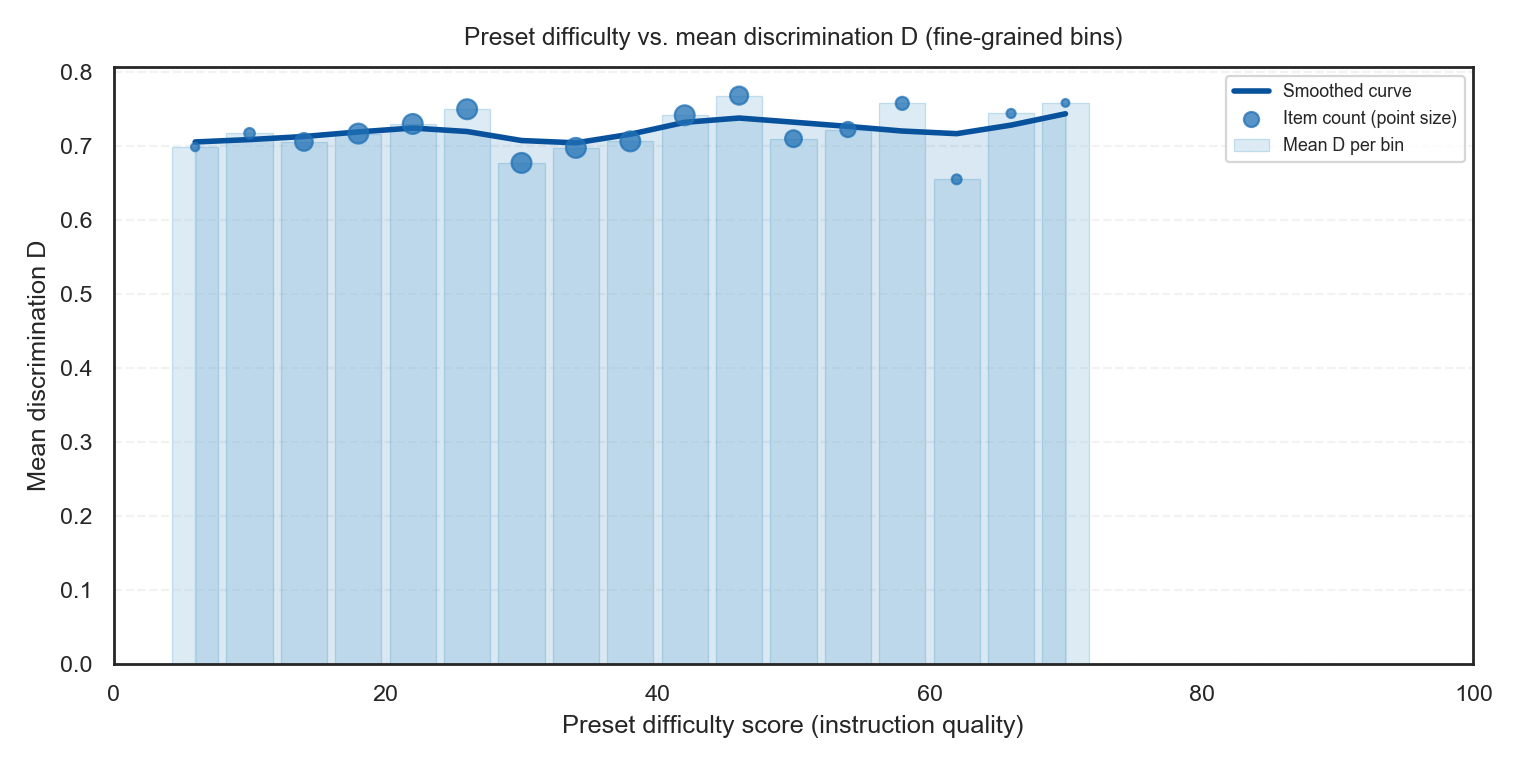
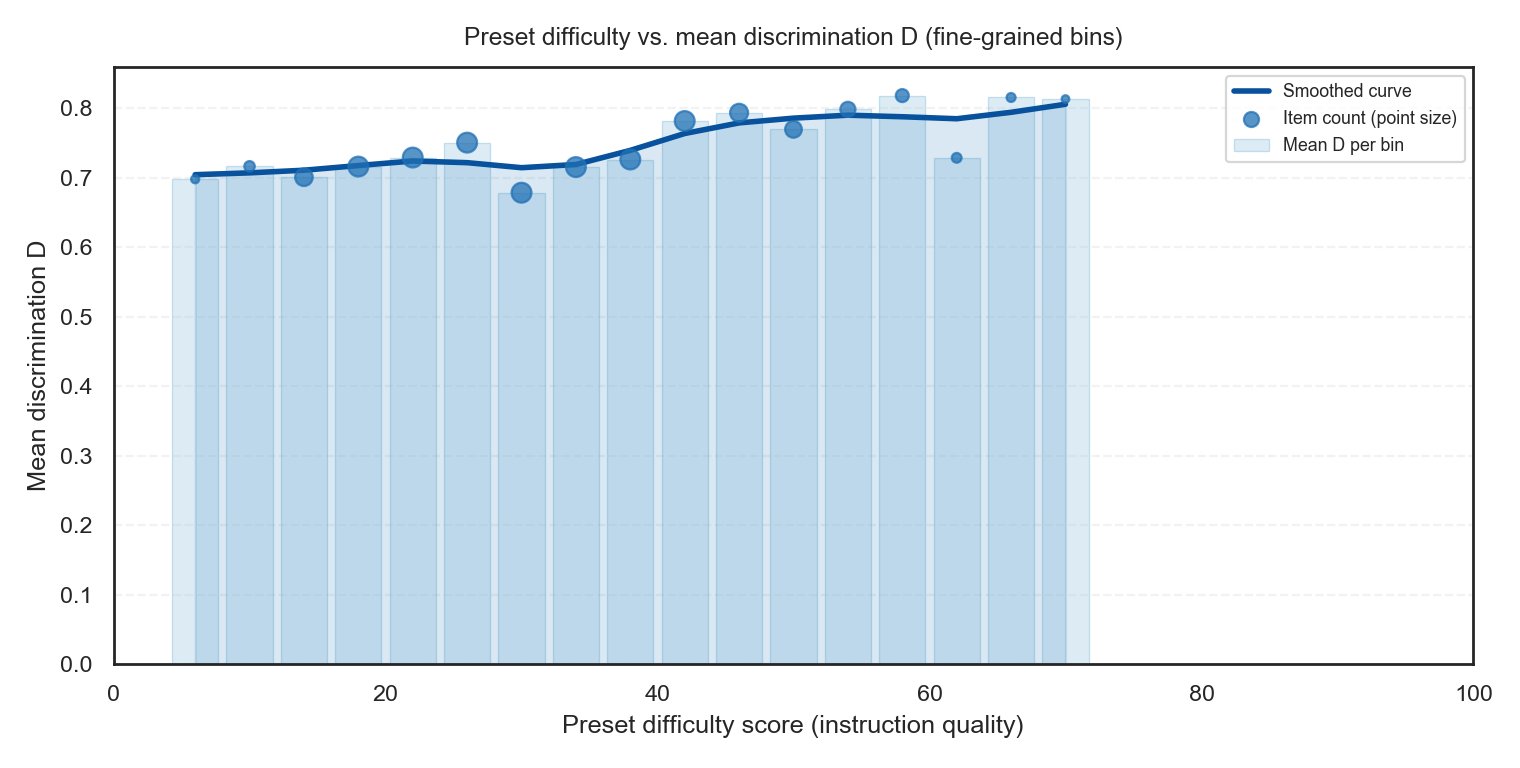
Stats: unify PK cohort to CANONICAL_8 across tables and charts.
Regenerate paper workbook and chart PNGs; update HEATMAP_GUIDE for 8×5 matrix.

diff --git a/scripts/stats/generate_comprehensive_benchmark_stats.py b/scripts/stats/generate_comprehensive_benchmark_stats.py
@@ -14,8 +14,8 @@ DISCBench / Compared benchmark 综合统计（论文复现用）。
   3. 难度档 × 考点数分箱热力图 + 相关
   4. 题目表全量 query 长度（1300 题）
   5. 综合对比表（来源维度）
-  6. 公开 8 模型 / DISCBench 12 模型得分
-  7. L1 × 模型均分（DISCBench 全 L1 × 12 模型）
+  6. PK 对比：8 模型 × 5 数据集（各 200 题 cohort，无额外模型行）
+  7. DISCBench：12 模型总榜（500 题）+ L1 × 12（仅自建集）
   8. 数据集元信息（难度/约束/任务覆盖）
   9. 数据集 × 六类约束个数热力图
  10. 展示名：Ours → DISCBench，排在末尾
@@ -247,16 +247,14 @@ def _difficulty_checkpoint_heatmaps(
 
 
 def _model_source_pivot(replies: pd.DataFrame) -> pd.DataFrame:
-    """12 模型 × 5 数据来源 → 均分（有评估分即计入，纵轴模型，横轴来源）。"""
-    r = replies.copy()
-    r["model_12"] = r["model"].map(to_discbench_model)
-    r = r[r["model_12"].astype(str).str.len() > 0]
+    """8 模型 × 5 数据来源 → 均分（PK cohort CANONICAL_8 回复行）。不含 DISCBench 特有 4 模型。"""
+    r = replies[replies["logical_model"].isin(CANONICAL_8)].copy()
     rows: List[Dict] = []
     for src in SOURCE_ORDER:
         sub = r[(r["source"] == src)].dropna(subset=["score"])
         dlabel = display_source(src)
-        for model in CANONICAL_12:
-            g = sub[sub["model_12"] == model]
+        for model in CANONICAL_8:
+            g = sub[sub["logical_model"] == model]
             rows.append({
                 "模型": model,
                 "数据来源": dlabel,
@@ -268,7 +266,7 @@ def _model_source_pivot(replies: pd.DataFrame) -> pd.DataFrame:
     if df.empty:
         return pd.DataFrame()
     pv = df.pivot_table(index="模型", columns="数据来源", values="均分", aggfunc="first")
-    pv = pv.reindex(index=CANONICAL_12, columns=SOURCE_ORDER_DISPLAY)
+    pv = pv.reindex(index=CANONICAL_8, columns=SOURCE_ORDER_DISPLAY)
     return pv
 
 
@@ -487,7 +485,10 @@ def run(
         {"项": "题级统计门槛", "值": f"≥{MIN_MODELS} 个模型有评估分"},
         {"项": "预设难度", "值": "difficulty_score（Stage1 指令质量分）"},
         {"项": "难度档", "值": "difficulty_score → D(0-20) C(20-40) B(40-60) A(60-80) S(80-100)"},
-        {"项": "区分度D", "值": "高/低27%模型均分差 ÷ 极差"},
+        {"项": "区分度D", "值": "高/低27%模型均分差 ÷ 极差（每项按模型分列取分后再算）"},
+        {"项": "区分度D_模型集合(PK)", "值": "各题仅用 CANONICAL_8（含 DISCBench），与公开四集及表6题级D口径一致"},
+        {"项": "PK回复行", "值": "cohort 内仅保留 CANONICAL_8 行；不参与 PK 的多余模型行不参与任何跨集表/图"},
+        {"项": "12模型口径", "值": "仅 DISCBench 全库500题 · 总分排名与表4-1 L1×12；不混入 PK 与其他四集矩阵"},
         {"项": "数据集总表", "值": "01_数据集总表：题库全量字段 + PK cohort 评估字段"},
         {"项": "D=0占比", "值": "题级区分度 D=0（各模型分数完全一致，极差=0）"},
     ])
@@ -497,7 +498,7 @@ def run(
     corr_diff_mean = _difficulty_mean_corr(items_scored)
     corr_diff_cp, cp_ct_all = _difficulty_checkpoint_heatmaps(questions, charts_dir)
     model_scores = _model_scores_table(replies)
-    model_source_pv = _model_source_pivot(replies_all)
+    model_source_pv = _model_source_pivot(replies)
     discbench_12 = _discbench_12_model_scores(replies_all, questions_all)
     discbench_12_pv = _discbench_12_model_pivot(discbench_12)
     discbench_l1 = _discbench_l1_model_table(replies_all, questions_all)
@@ -588,19 +589,19 @@ def run(
         )
         chart_manifest.append(("5. DISCBench · 12-model mean score ranking", p5))
 
-    # 6. 12 models × 5 datasets
+    # 6. 8 models × 5 datasets (PK cohort only)
     if not model_source_pv.empty:
         p6 = charts_dir / "06_models_x_sources.png"
         plot_heatmap(
             model_source_pv,
             p6,
-            "12 models × 5 datasets · mean score (scored items only, mean(1_score,3_score))",
+            "8 models × 5 datasets · PK cohort mean score (CANONICAL_8, 200/source, mean(1,3))",
             fmt=".1f",
             cbar_label="Mean score",
             xlabel="Dataset",
             ylabel="Model",
         )
-        chart_manifest.append(("6. 12 models × 5 datasets: mean score", p6))
+        chart_manifest.append(("6. PK · 8 models × 5 datasets: mean score", p6))
 
     # 7. DISCBench · L1 × 12 models
     if not discbench_l1_pv.empty:
@@ -712,8 +713,8 @@ def run(
         ])
         write_stacked_tables(w, "表2_难度与区分度", sec2)
         sec3: List[Tuple[str, pd.DataFrame]] = [
-            ("表3-1  12 模型 × 5 数据集均分矩阵（有评估分即计入）", model_source_pv),
-            ("表3-2  8 模型 × 来源均分明细", model_scores),
+            ("表3-1  8 模型 × 5 数据集均分矩阵（PK cohort×200/source，CANONICAL_8）", model_source_pv),
+            ("表3-2  8 模型 × 来源均分明细（长表）", model_scores),
         ]
         if not discbench_12.empty:
             sec3.append(("表3-3  DISCBench · 12 模型均分与排名（500 题）", discbench_12))

diff --git a/scripts/lib/cif_stats_common.py b/scripts/lib/cif_stats_common.py
@@ -445,10 +445,10 @@ def filter_analysis_cohort(
     return q, r
 
 
-def _scored_rows_for_qid(replies: pd.DataFrame, qid: str, source: str) -> pd.DataFrame:
+def _scored_rows_for_qid(replies: pd.DataFrame, qid: str, _source: str) -> pd.DataFrame:
+    """PK / 跨集对比：仅统计 CANONICAL_8（向后兼容保留第三参）。"""
     g = replies[replies["qid"].astype(str) == str(qid)]
-    if source != OURS_SOURCE:
-        g = g[g["logical_model"].isin(CANONICAL_8)]
+    g = g[g["logical_model"].isin(CANONICAL_8)]
     return g.dropna(subset=["score"])
 
 
@@ -466,7 +466,10 @@ def verify_cohort_completeness(questions: pd.DataFrame, replies: pd.DataFrame) -
             expected = PUBLIC_ANALYSIS_N
         n_any_reply = n_any_score = n_ge_min = n_both = 0
         for qid in qids:
-            g = replies[replies["qid"].astype(str) == str(qid)]
+            g = replies[
+                (replies["qid"].astype(str) == str(qid))
+                & replies["logical_model"].isin(CANONICAL_8)
+            ]
             gs = _scored_rows_for_qid(replies, qid, src)
             if len(g) > 0:
                 n_any_reply += 1
@@ -511,19 +514,27 @@ def prepare_analysis_tables(
     sheet: str = "数据对齐",
 ) -> tuple[pd.DataFrame, pd.DataFrame, pd.DataFrame, pd.DataFrame]:
     """
-    加载 → 完整性检查 → 过滤到 800+200 cohort → 题级表。
-    返回 (coverage_report, questions_cohort, replies_cohort, items)
+    加载 → cohort 完整性（8 模型口径）→ 过滤 1000 题 cohort → **仅 CANONICAL_8 回复行** → 题级表。
+    （DISCBench 特有 4 模型不计入 PK 对比；12 模型总榜另用全表 replies_all 计算。）
+    返回 (coverage_report, questions_cohort, replies_cohort_pk8, items)
     """
     questions = load_questions(questions_path, sheet=sheet)
     replies = load_replies_with_scores(replies_path, questions)
     coverage = verify_cohort_completeness(questions, replies)
     questions, replies = filter_analysis_cohort(questions, replies)
+    replies = replies[replies["logical_model"].isin(CANONICAL_8)].copy()
     items = build_item_level_table(questions, replies)
     return coverage, questions, replies, items
 
 
 def build_item_level_table(questions: pd.DataFrame, replies: pd.DataFrame) -> pd.DataFrame:
-    """题级指标（仅 questions 中 cohort 题目；需 ≥MIN_MODELS 有评估分才产出均分/D）。"""
+    """题级指标（仅 questions 中 cohort 题目；需 ≥MIN_MODELS 有评估分才产出均分/D）。
+
+    区分度 D（PK cohort · 跨数据集可比）：
+      一律仅使用 ``CANONICAL_8`` 的模型分（与公开四集一致）；与
+      ``generate_benchmark_source_summary_report.build_source_discrimination`` 口径对齐。
+      DISCBench 12 模型专项见 ``_discbench_*`` 等表，不在此混用 12 模型算 D。
+    """
     rows: List[Dict] = []
     qidx = questions.set_index("qid")
 
@@ -533,10 +544,7 @@ def build_item_level_table(questions: pd.DataFrame, replies: pd.DataFrame) -> pd
             qrow = qrow.iloc[0]
         src = str(qrow["source"])
         g = replies[replies["qid"].astype(str) == str(qid)]
-        if src != OURS_SOURCE:
-            g2 = g[g["logical_model"].isin(CANONICAL_8)].dropna(subset=["score"])
-        else:
-            g2 = g.dropna(subset=["score"])
+        g2 = g[g["logical_model"].isin(CANONICAL_8)].dropna(subset=["score"])
         scores = g2.groupby("model")["score"].first()
         has_reply = len(g) > 0
         has_score = len(scores) > 0
@@ -614,7 +622,7 @@ def tier_mean_score_pivot(items: pd.DataFrame) -> pd.DataFrame:
 
 
 def tier_mean_disc_pivot(items: pd.DataFrame) -> pd.DataFrame:
-    """各 source × 难度档 → 题均区分度 D 的均值（仅 disc 有效题；难度档来自 difficulty_score）。"""
+    """各 source × 难度档 → 题均区分度 D 的均值（disc 口径：CANONICAL_8，含 Ours，与 PK 跨集可比）。难度档来自 difficulty_score。"""
     out = pd.DataFrame(index=SOURCE_ORDER_DISPLAY, columns=TIER_LABELS, dtype=float)
     for src in SOURCE_ORDER:
         sub = items[items["source"] == src]

diff --git a/scripts/stats/generate_benchmark_source_summary_report.py b/scripts/stats/generate_benchmark_source_summary_report.py
@@ -126,6 +126,8 @@ def load_data(replies_path: Path, questions_path: Path) -> tuple[pd.DataFrame, p
             replies[col] = pd.to_numeric(replies[col], errors="coerce")
     replies[GPT54_MEAN_SCORE_COL] = replies.apply(gpt54_mean_score, axis=1)
     replies = replies[replies["qid"].astype(str).isin(cohort_qids)].copy()
+    # 跨数据集对比与综合统计一致：只保留 8 个可比模型行，不混入 DISCBench 额外 4 模型
+    replies = replies[replies["logical_model"].isin(CANONICAL_8)].copy()
 
     diff_col = "difficulty_score" if "difficulty_score" in qs.columns else None
     return replies, qs, diff_col, coverage
@@ -415,6 +417,7 @@ def main() -> None:
 
     meta = pd.DataFrame([
         {"项": "分析cohort", "值": f"公开4×{PUBLIC_ANALYSIS_N} + Ours前{PK_OURS_N} = 1000题"},
+        {"项": "回复行过滤", "值": "仅 CANONICAL_8；12 模型 DISCBench 总榜见 comprehensive 表3-3"},
         {"项": "统一裁判", "值": GPT54_JUDGE_MODEL},
         {"项": "统计主分", "值": f"{PRIMARY_SCORE_LABEL} = mean({', '.join(GPT54_SCORE_COLS)})"},
         {"项": "2_score", "值": "Claude 裁判，仅作一致性对比"},

diff --git a/scripts/verify_data_for_stats.py b/scripts/verify_data_for_stats.py
@@ -95,8 +95,7 @@ def check_replies_alignment(replies_path: Path, q: pd.DataFrame) -> tuple[pd.Dat
         n_q = sub["qid"].nunique()
         n_ge4 = 0
         for qid, g in sub.groupby("qid"):
-            if src != OURS_SOURCE:
-                g = g[g["logical_model"].isin(CANONICAL_8)]
+            g = g[g["logical_model"].isin(CANONICAL_8)]
             g = g.dropna(subset=["score"])
             if len(g.groupby("model")["score"].first()) >= MIN_MODELS:
                 n_ge4 += 1

diff --git a/docs/HEATMAP_GUIDE.md b/docs/HEATMAP_GUIDE.md
@@ -29,7 +29,7 @@
 | `03_difficulty_vs_checkpoint_all.png` | Checkpoint count bin × difficulty tier |
 | `04_query_length_by_source.png` | Mean instruction length by dataset |
 | `05_discbench_12_models_mean.png` | DISCBench 500 items · 12-model means |
-| `06_models_x_sources.png` | 12 models × 5 datasets |
+| `06_models_x_sources.png` | 8 models × 5 datasets (PK cohort, CANONICAL_8) |
 | `07_discbench_l1_x_12models.png` | DISCBench L1 × 12 models |
 | `07b_l1_x_8models_pk.png` | PK cohort L1 × 8 models |
 | `09_source_constraint_pct.png` | Dataset × six constraint types (%) |
